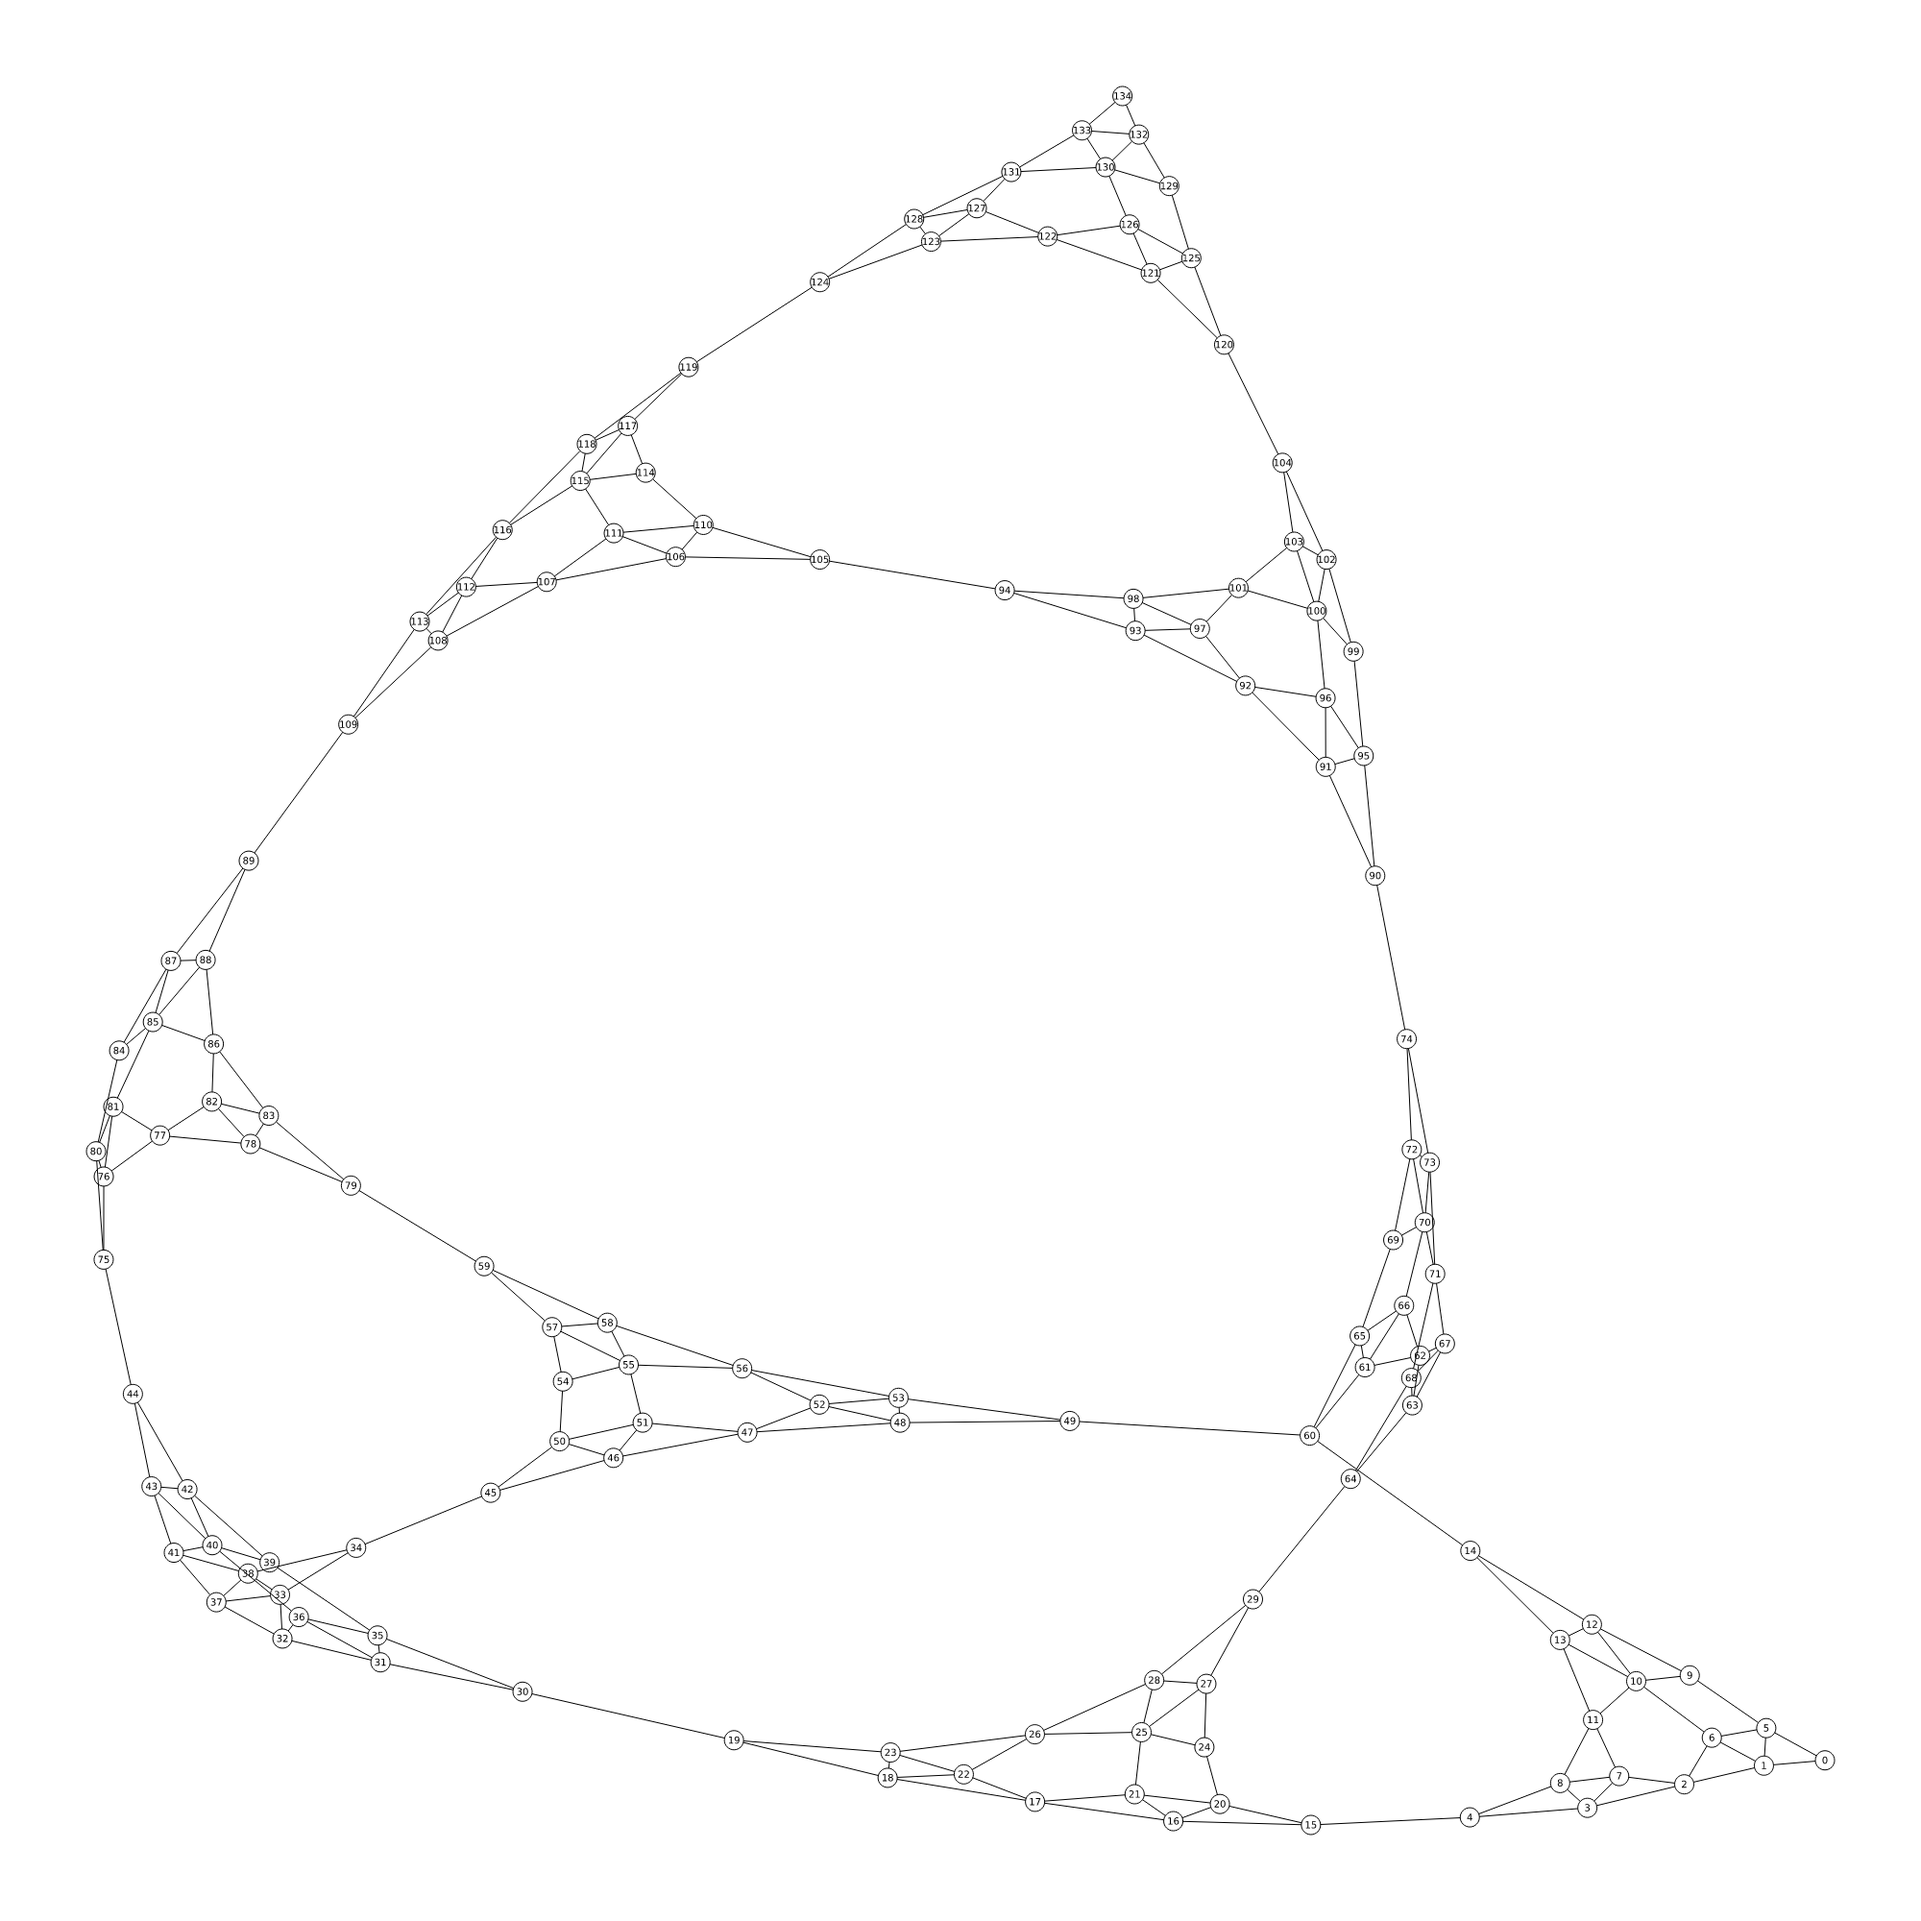
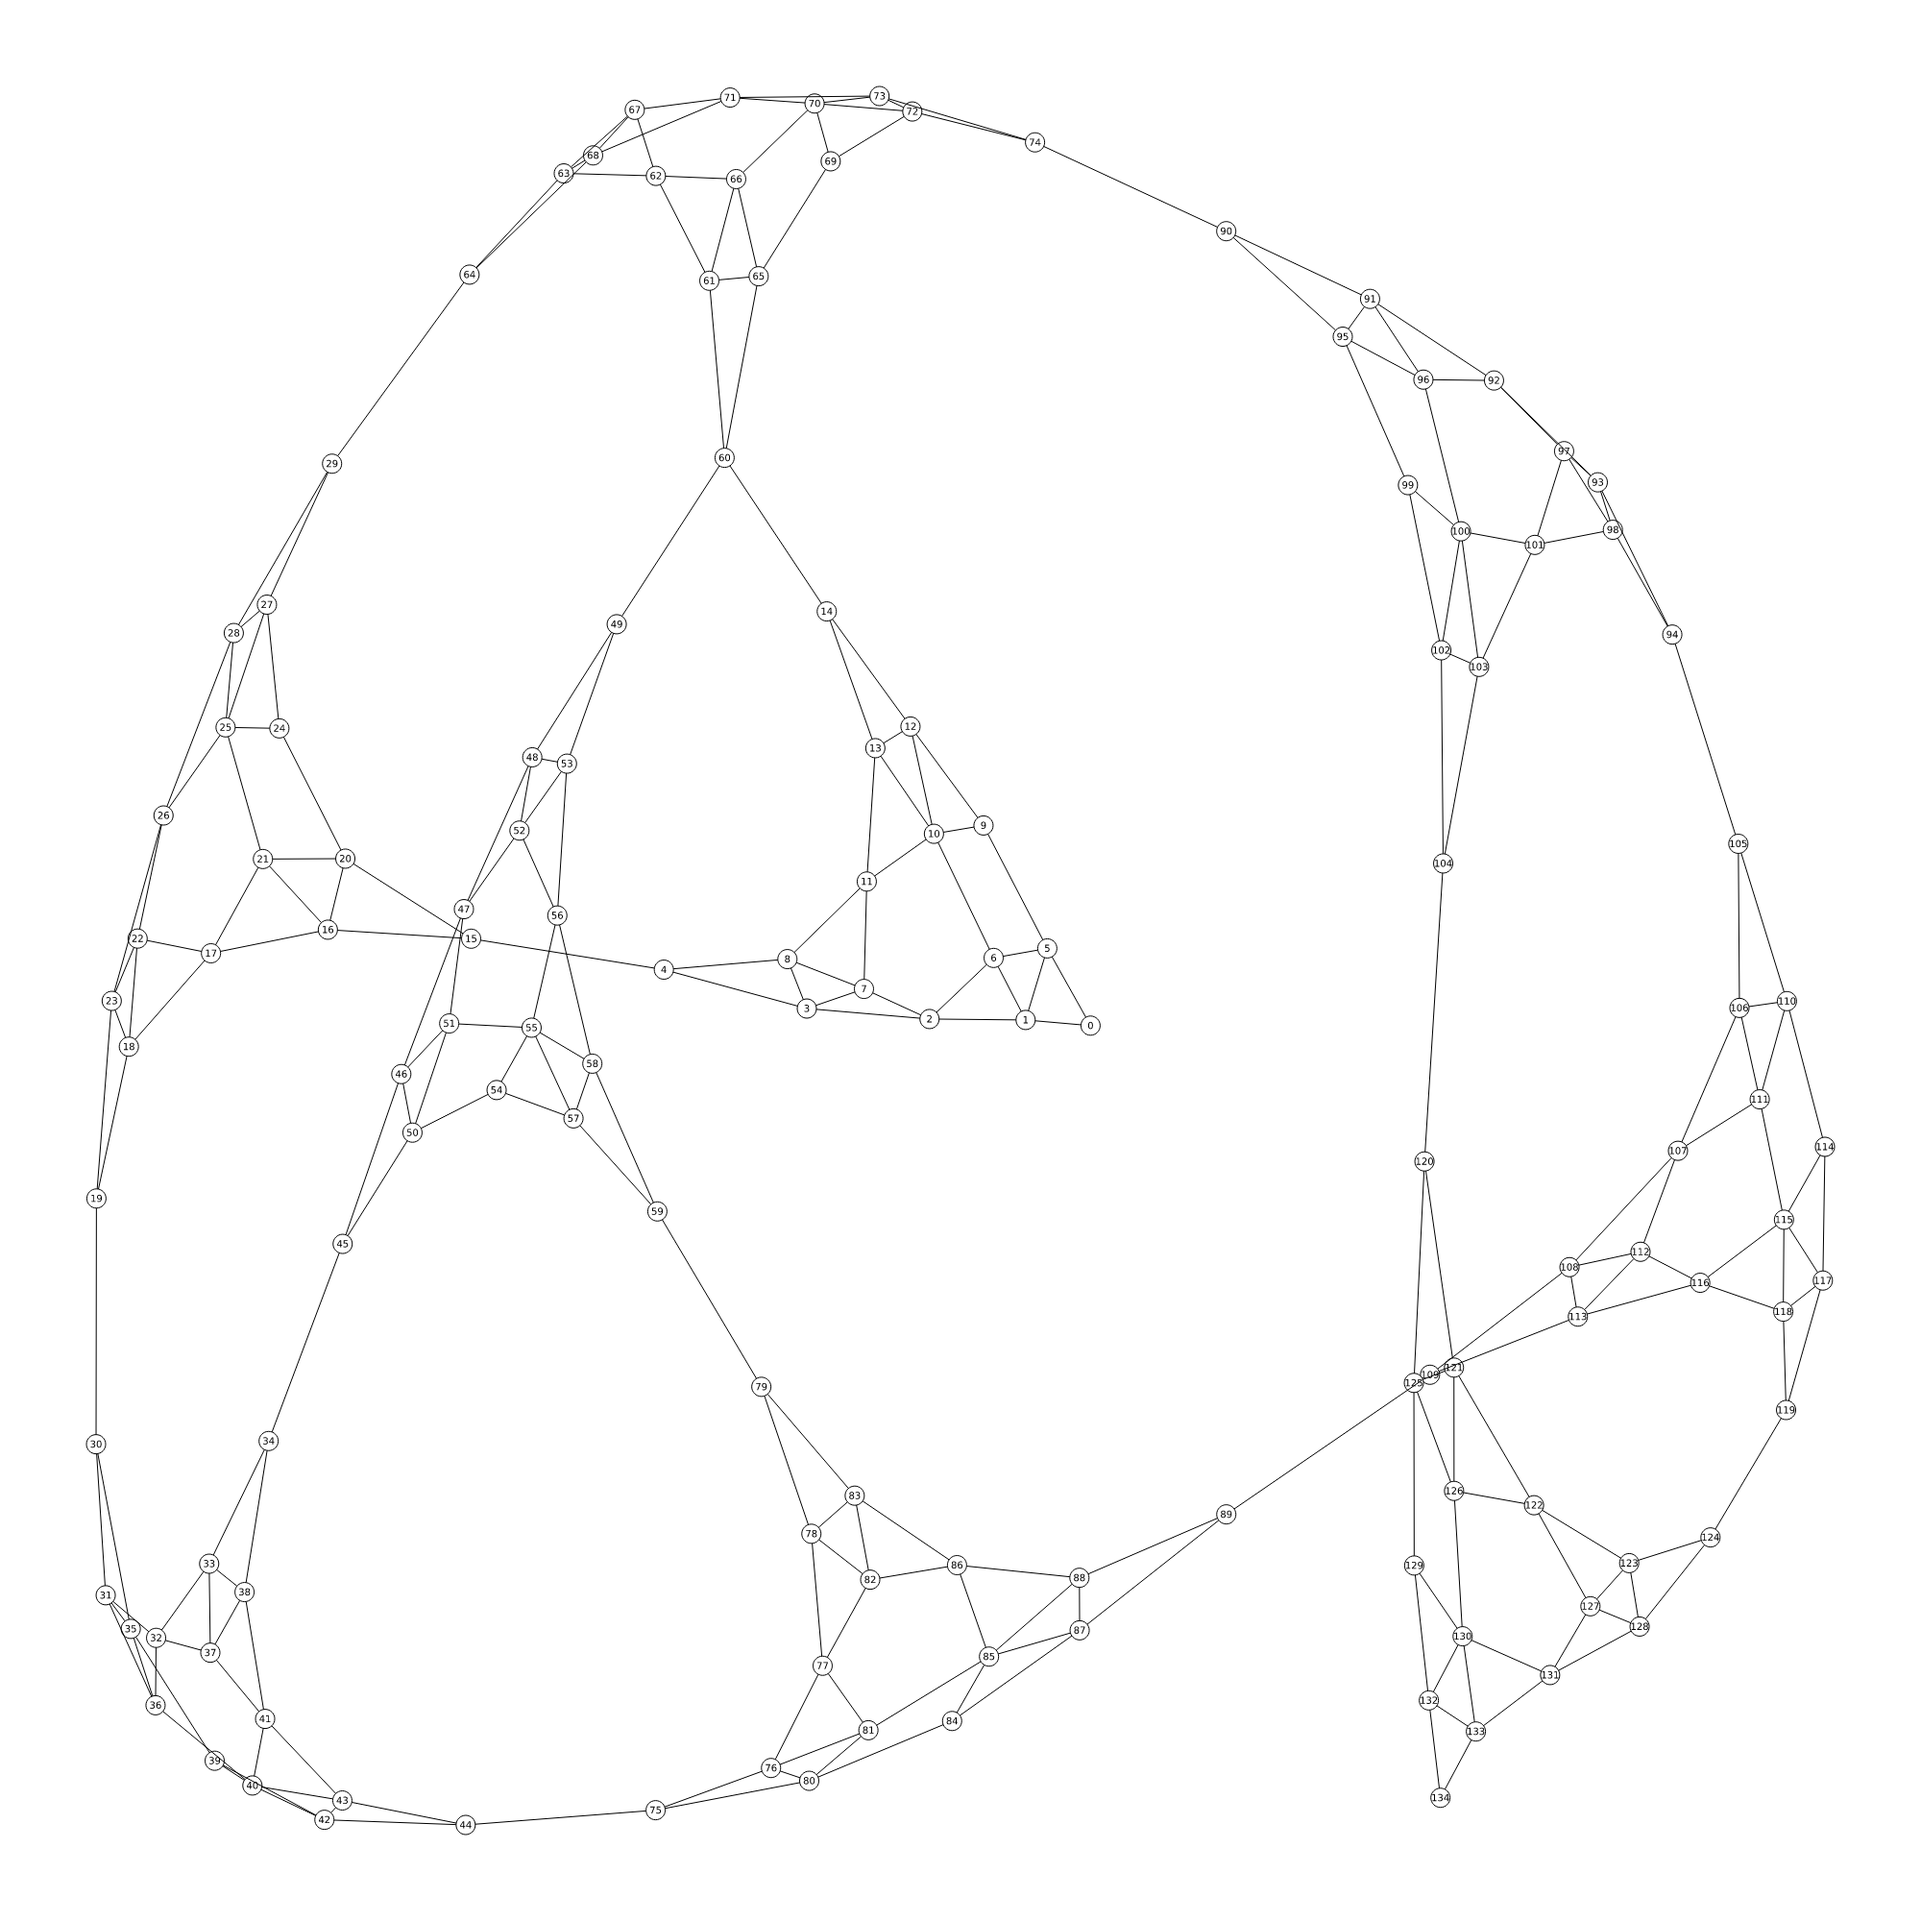
fix: Update force_directed layout to use fastrand to generate initial random positions and thus improve results

diff --git a/src/layout/force_directed.rs b/src/layout/force_directed.rs
@@ -1,7 +1,17 @@
 use petgraph::visit::{EdgeRef, IntoEdgeReferences, IntoNodeReferences, NodeIndexable, NodeRef};
 
-pub const DEFAULT_ITERATIONS: u32 = 100;
+pub const DEFAULT_ITERATIONS: u32 = 1000;
+const CLIPPING_VALUE: f32 = 0.01;
 
+/// TODO:
+///
+/// # Reference
+///
+/// This is an implementation of the Fruchterman-Reingold force-directed algorithm as presented in
+/// the original paper:
+///
+/// Fruchterman, T. M. J., Reingold, E. M. (1991). Graph drawing by force-directed placement
+/// https://doi.org/10.1002/spe.4380211102.
 pub fn get_force_directed_position_map<G>(
     graph: &G,
     iterations: u32,
@@ -13,24 +23,26 @@ where
     let mut positions = vec![(0.0f32, 0.0f32); graph.node_bound()];
 
     if node_count > 0 {
-        // Initialize positions randomly in a circle to avoid pathological cases
-        for (i, node_ref) in graph.node_references().enumerate() {
+        // Initialize positions randomly
+        let mut rng = fastrand::Rng::new();
+
+        for node_ref in graph.node_references() {
+            let x = rng.f32();
+            let y = rng.f32();
             let idx = graph.to_index(node_ref.id());
-            let angle = (i as f32) / (node_count as f32) * std::f32::consts::TAU;
-            positions[idx] = (angle.cos(), angle.sin());
+            positions[idx] = (x, y);
         }
 
         // Simulation parameters
-        let area = 1.0f32;
-        let k = (area / (node_count as f32)).sqrt(); // Optimal distance between nodes
+        let k = (1.0 / (node_count as f32)).sqrt();
         let initial_temp = 0.1f32;
 
-        let edges: Vec<_> = graph
+        let edges: Vec<(usize, usize)> = graph
             .edge_references()
             .map(|edge| (graph.to_index(edge.source()), graph.to_index(edge.target())))
             .collect();
 
-        let node_indices: Vec<_> = graph
+        let node_indices: Vec<usize> = graph
             .node_references()
             .map(|node_ref| graph.to_index(node_ref.id()))
             .collect();
@@ -46,7 +58,9 @@ where
 
                     let delta_x = positions[idx_i].0 - positions[idx_j].0;
                     let delta_y = positions[idx_i].1 - positions[idx_j].1;
-                    let distance = (delta_x * delta_x + delta_y * delta_y).sqrt().max(0.01);
+                    let distance = (delta_x * delta_x + delta_y * delta_y)
+                        .sqrt()
+                        .max(CLIPPING_VALUE);
 
                     // Repulsive force: f_r = k^2 / d
                     let repulsion = k * k / distance;
@@ -64,7 +78,9 @@ where
             for &(source_idx, target_idx) in &edges {
                 let delta_x = positions[source_idx].0 - positions[target_idx].0;
                 let delta_y = positions[source_idx].1 - positions[target_idx].1;
-                let distance = (delta_x * delta_x + delta_y * delta_y).sqrt().max(0.01);
+                let distance = (delta_x * delta_x + delta_y * delta_y)
+                    .sqrt()
+                    .max(CLIPPING_VALUE);
 
                 let attraction = distance * distance / k;
                 let force_x = (delta_x / distance) * attraction;
@@ -77,21 +93,21 @@ where
             }
 
             // Apply displacements with cooling
-            let temp = initial_temp * (1.0 - (iteration as f32) / (iterations as f32));
+            let curr_temp = initial_temp - (0.1 * iteration as f32) / ((iterations + 1) as f32);
             for &idx in &node_indices {
                 let disp_len = (displacements[idx].0 * displacements[idx].0
                     + displacements[idx].1 * displacements[idx].1)
                     .sqrt();
 
                 if disp_len > 0.0 {
-                    let limited_disp_len = disp_len.min(temp);
+                    let limited_disp_len = disp_len.min(curr_temp);
                     positions[idx].0 += (displacements[idx].0 / disp_len) * limited_disp_len;
                     positions[idx].1 += (displacements[idx].1 / disp_len) * limited_disp_len;
                 }
             }
         }
 
-        // Normalize positions
+        // Normalize positions to [0.0, 1.0]
         if !positions.is_empty() {
             let mut min_x = f32::INFINITY;
             let mut max_x = f32::NEG_INFINITY;
